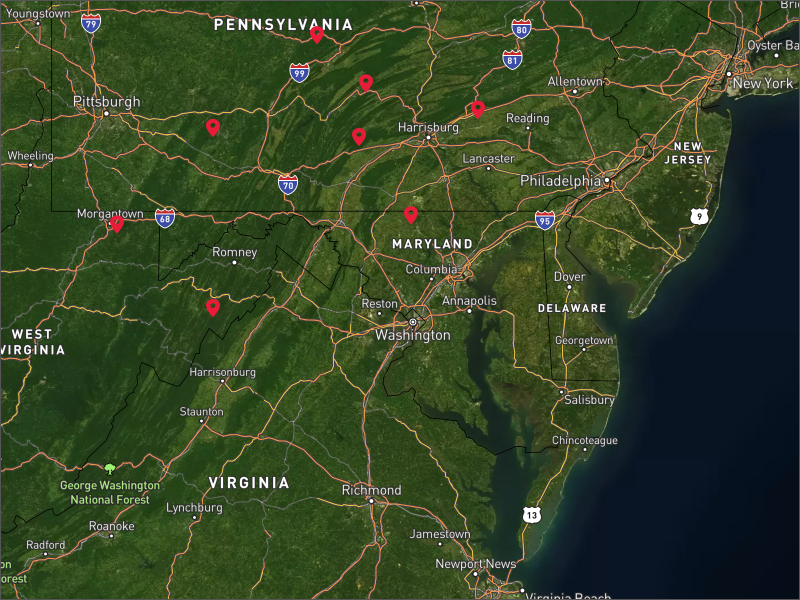
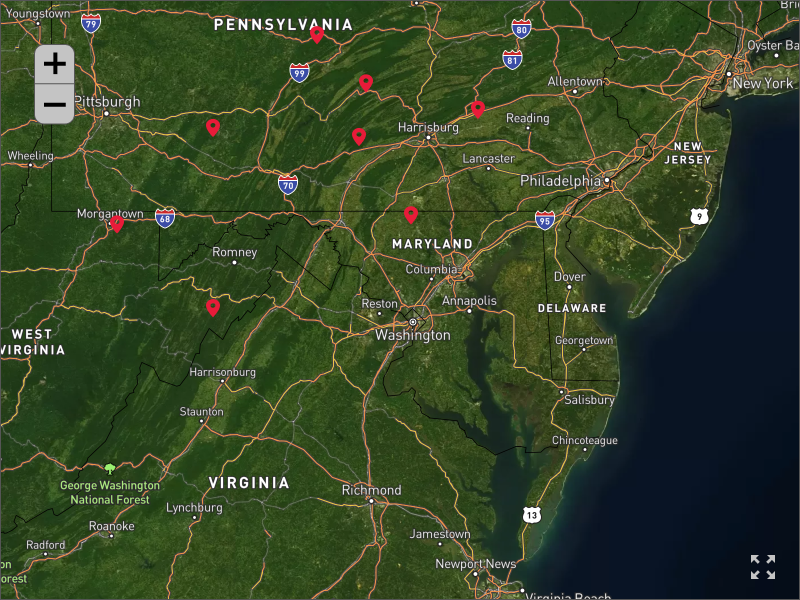
s

Changed region(s): [[0.0312, 0.06, 0.0938, 0.21], [0.9375, 0.93, 0.9688, 0.96]]

diff --git a/index.html b/index.html
@@ -72,6 +72,9 @@
                 </div>
                 <div class="embed-map">
                     <img src="resources/images/in use/Map + markers.png" alt="Where we ride">
+                   
+                        </div>
+                    </div>
                 </div>
                 
             </div>

diff --git a/resources/css/styles.css b/resources/css/styles.css
@@ -315,10 +315,13 @@ nav li:nth-child(n+1) {
   
   justify-content: center;
   flex-direction: column;
+
  }
 .embed-map {
   border-radius: 10px;
+
 }
+
  .map img {
    width: 100%;
    
